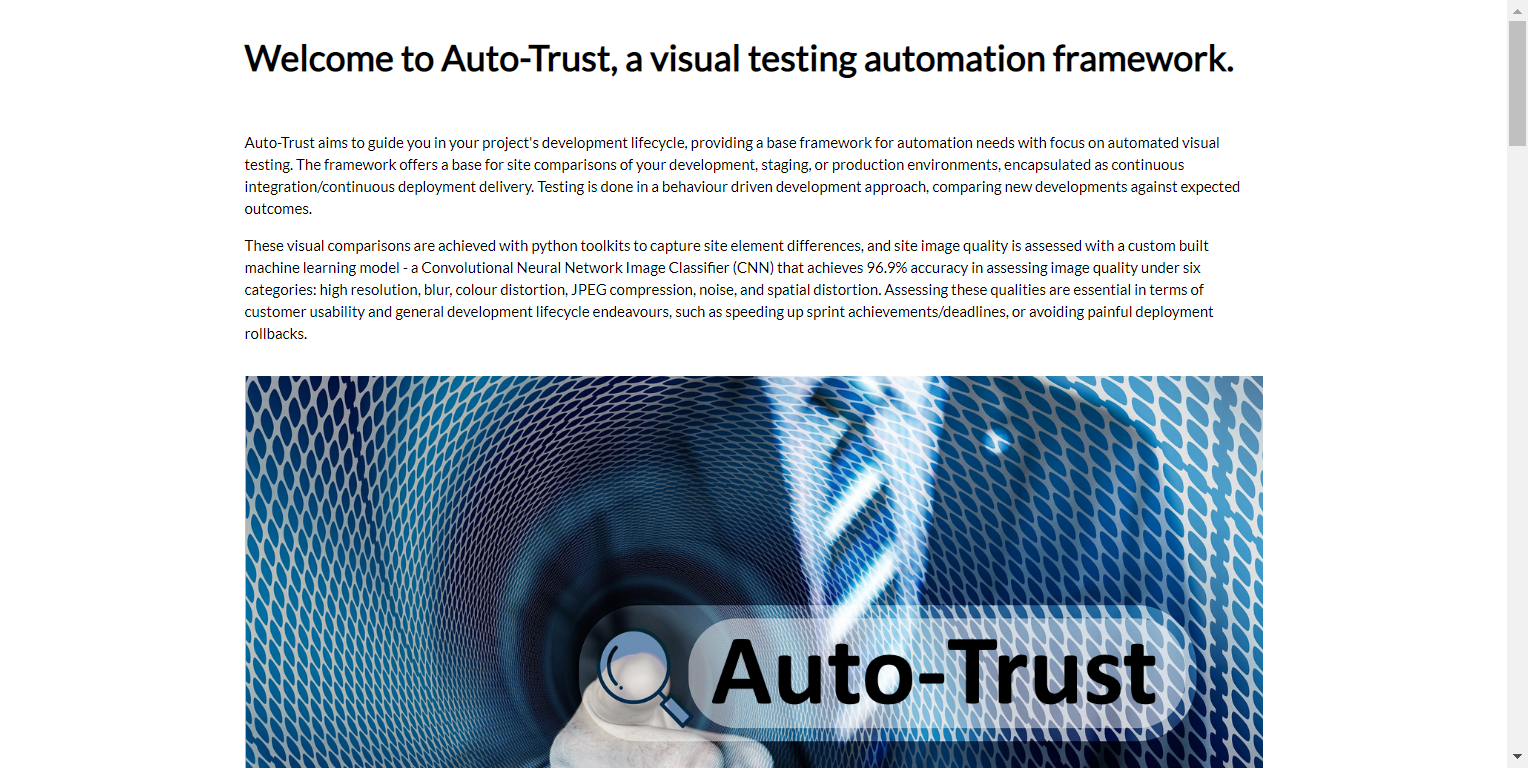
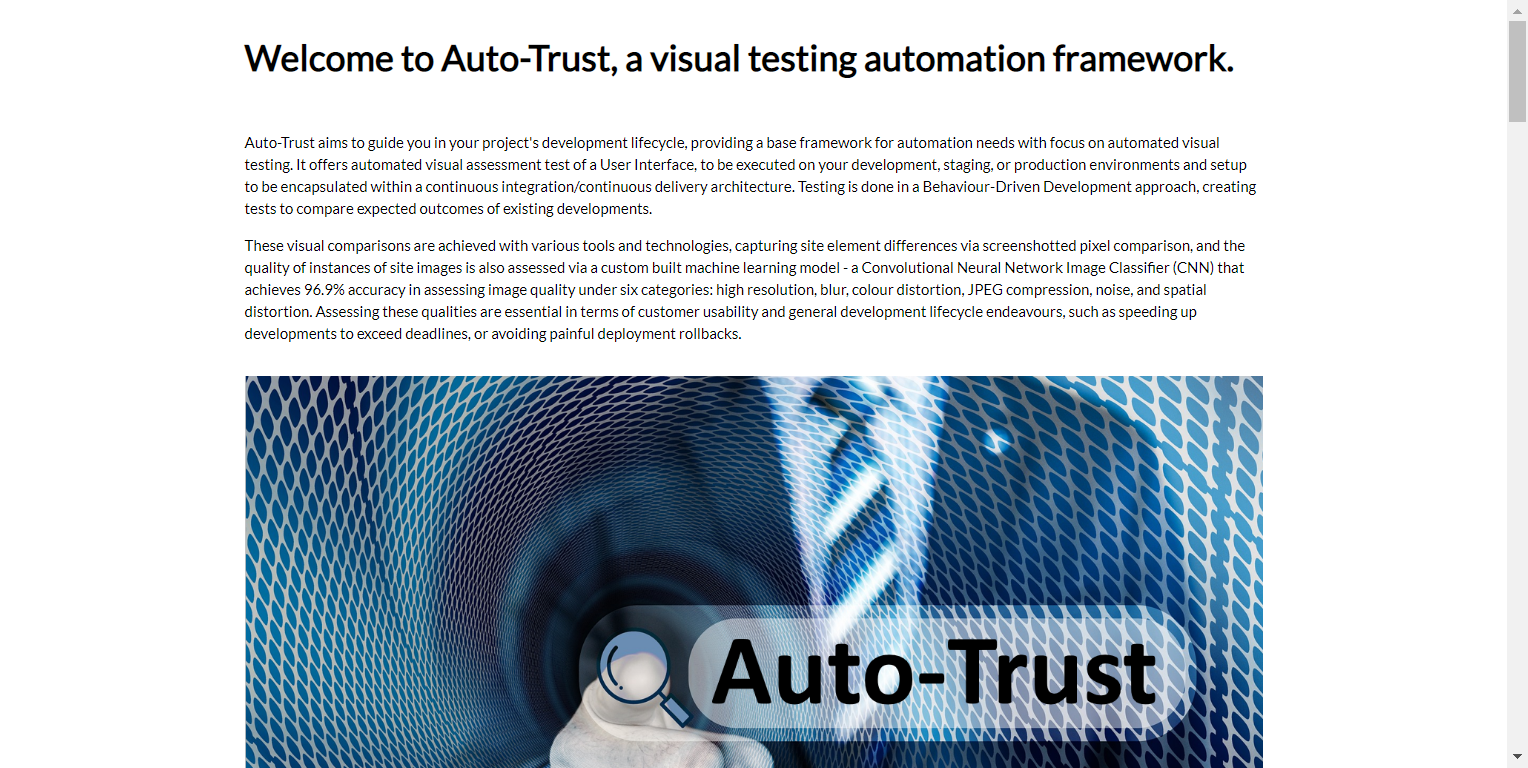
readme

Changed region(s): [[0.1538, 0.3125, 0.8305, 0.4375], [0.1538, 0.1875, 0.8305, 0.2812], [0.9843, 0.1562, 1.0, 0.1875]]

diff --git a/README.md b/README.md
@@ -1,1 +1,33 @@
-# AutoTrust_User_Testing_Workspace
+# Auto-Trust, an automated visual testing framework.
+Auto-Trust is a final year college software project, an automated visual testing framework that emphasizes the importance
+of visual testing during the Software Development Lifecycle. Also provided as a base framework that users can integrate
+into their own testing workflows, from experienced testers that may want to extract the visual assessment functionality
+only, to beginners who may want to learn from a structured example of automated testing within a Behaviour-Driven Development
+workflow.
+
+This repository is an example of a "user's testing workspace" that holds the automated tests.
+
+The tests are executed on an example of a "user's workspace", an application User Interface.
+The domain of this example "user's workspace" holds more information so please check
+it before continuing - https://auto-trust-user-workspace-example-environment.netlify.app/
+
+To find more info on Behave - https://behave.readthedocs.io/en/stable/tutorial.html#features
+To find more info on Selenium with behave - https://www.blazemeter.com/blog/using-the-behave-framework-for-selenium-bdd-testing-a-tutorial
+
+### Pre-requisites
+Before executing the tests, ensure you have met the following requirements:
+
+* installation steps will be given in Linux commands, so make sure you have access to a Linux distribution terminal.
+On Windows, examples to download are Git-Bash and WSL.
+* You have installed Python, and the requirements from requirements.txt
+```
+run:
+pip install -r requirements.txt
+```
+* You have a basic understanding of graph theory.
+
+
+
+For a more modern Continuous Integration server, you can find a config.yml in the .circleci directory which sets up the necessary
+dependencies in the correct order, such as a docker image of browser tools for chromedriver, which is downloaded to the same
+chromedriver path specified in the Auto-Trust variables file.
